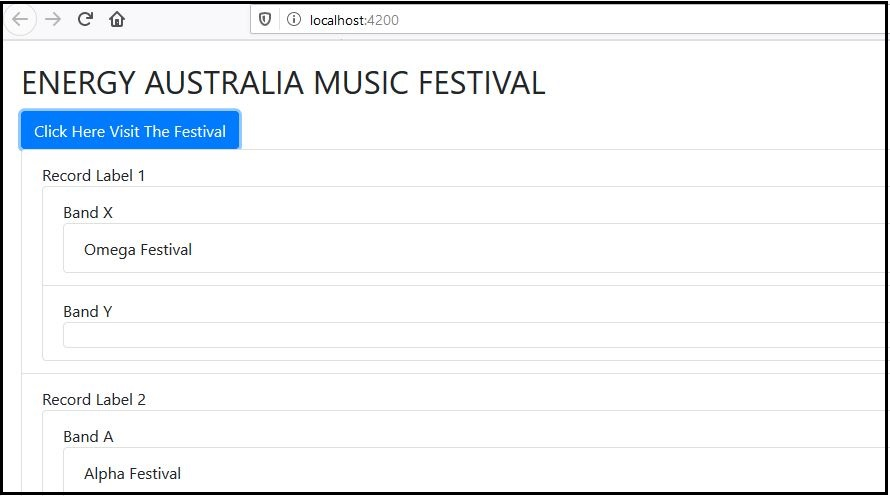
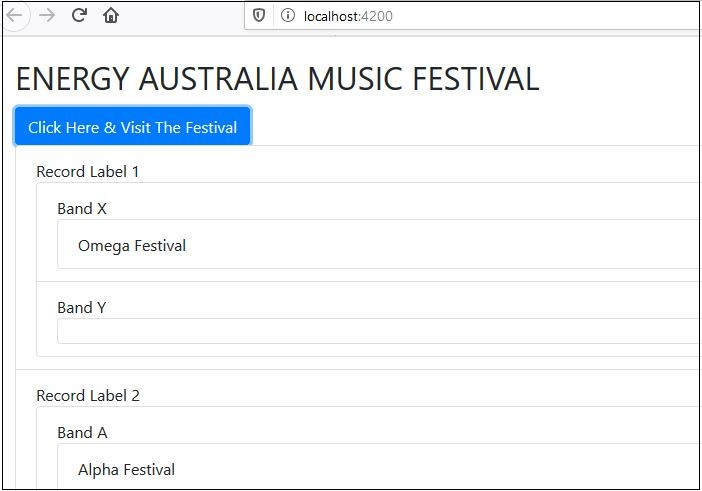
Added border frontend screenshot

diff --git a/src/app/components/fest-tree/fest-tree.component.html b/src/app/components/fest-tree/fest-tree.component.html
@@ -26,7 +26,7 @@
 
     <div class="row">
       <div class="col">
-        <button class="btn btn-primary" (click)="getMusicfestivalDetails()">Click Here Visit The Festival</button>
+        <button class="btn btn-primary" (click)="getMusicfestivalDetails()">Click Here & Visit The Festival</button>
       </div>
     </div>     
 
